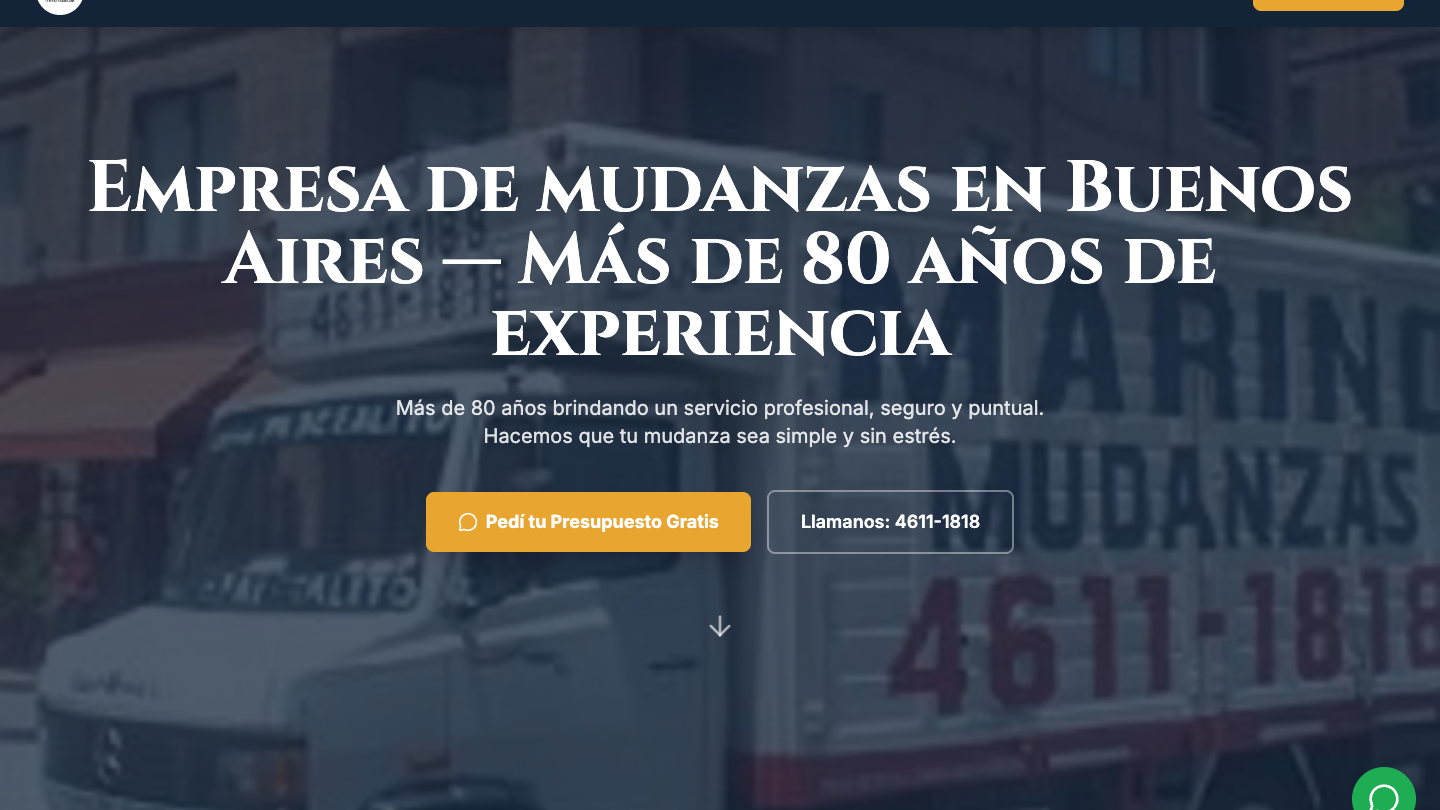
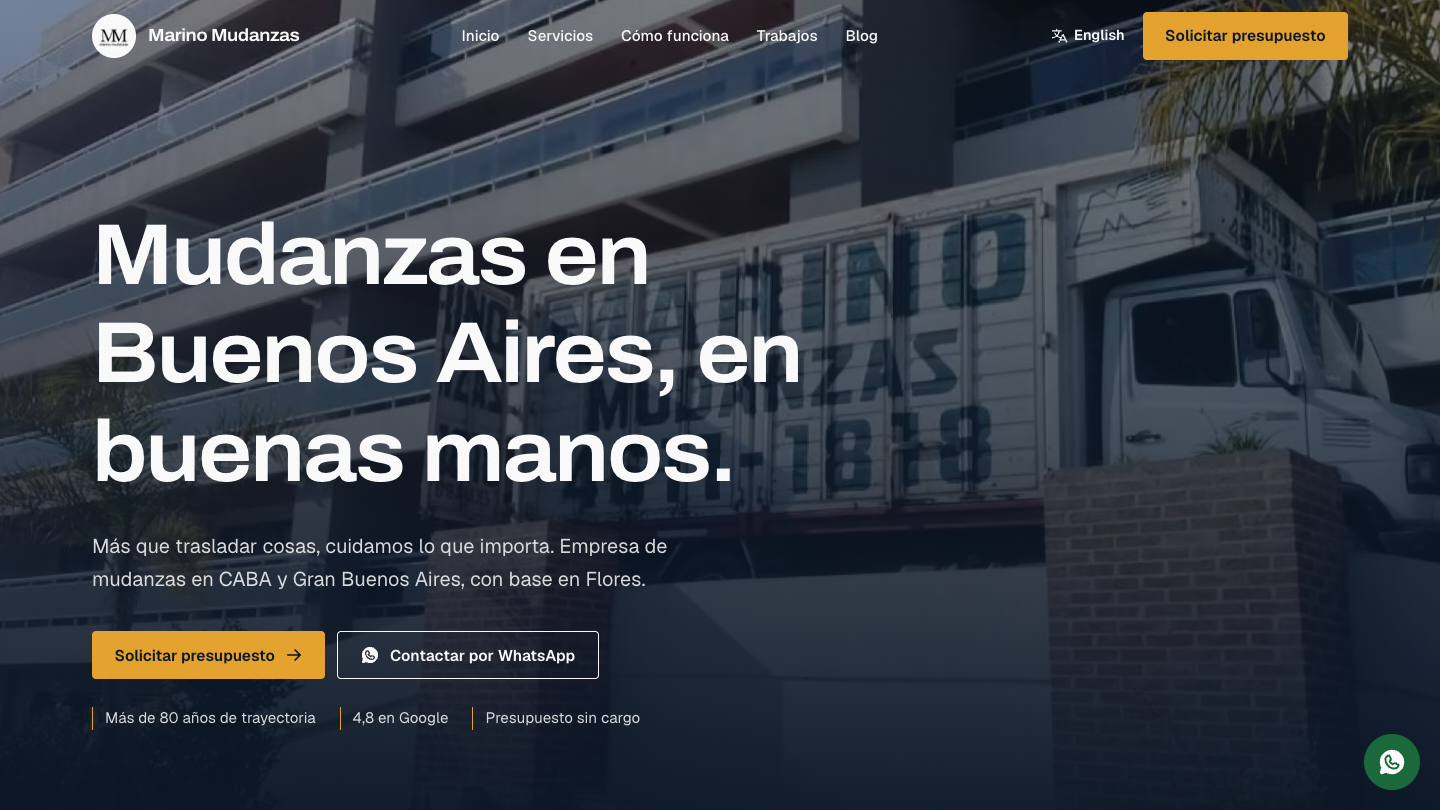
Trabajos: captura y descripción actuales de Marino Mudanzas

diff --git a/src/datos/sitio.ts b/src/datos/sitio.ts
@@ -71,7 +71,7 @@ export const trabajos = [
 		rubro: 'Mudanzas y guardamuebles',
 		tipo: 'Sitio publicado',
 		texto:
-			'Páginas por servicio, guías por barrio, blog y pedido de presupuesto por WhatsApp.',
+			'Páginas por servicio, blog, versión en inglés y pedido de presupuesto por WhatsApp.',
 		enlace: { texto: 'mudanzasmarino.com.ar', href: 'https://www.mudanzasmarino.com.ar' },
 		imagen: marino,
 		alt: 'Portada del sitio de Marino Mudanzas, con un camión de la empresa de fondo.',
